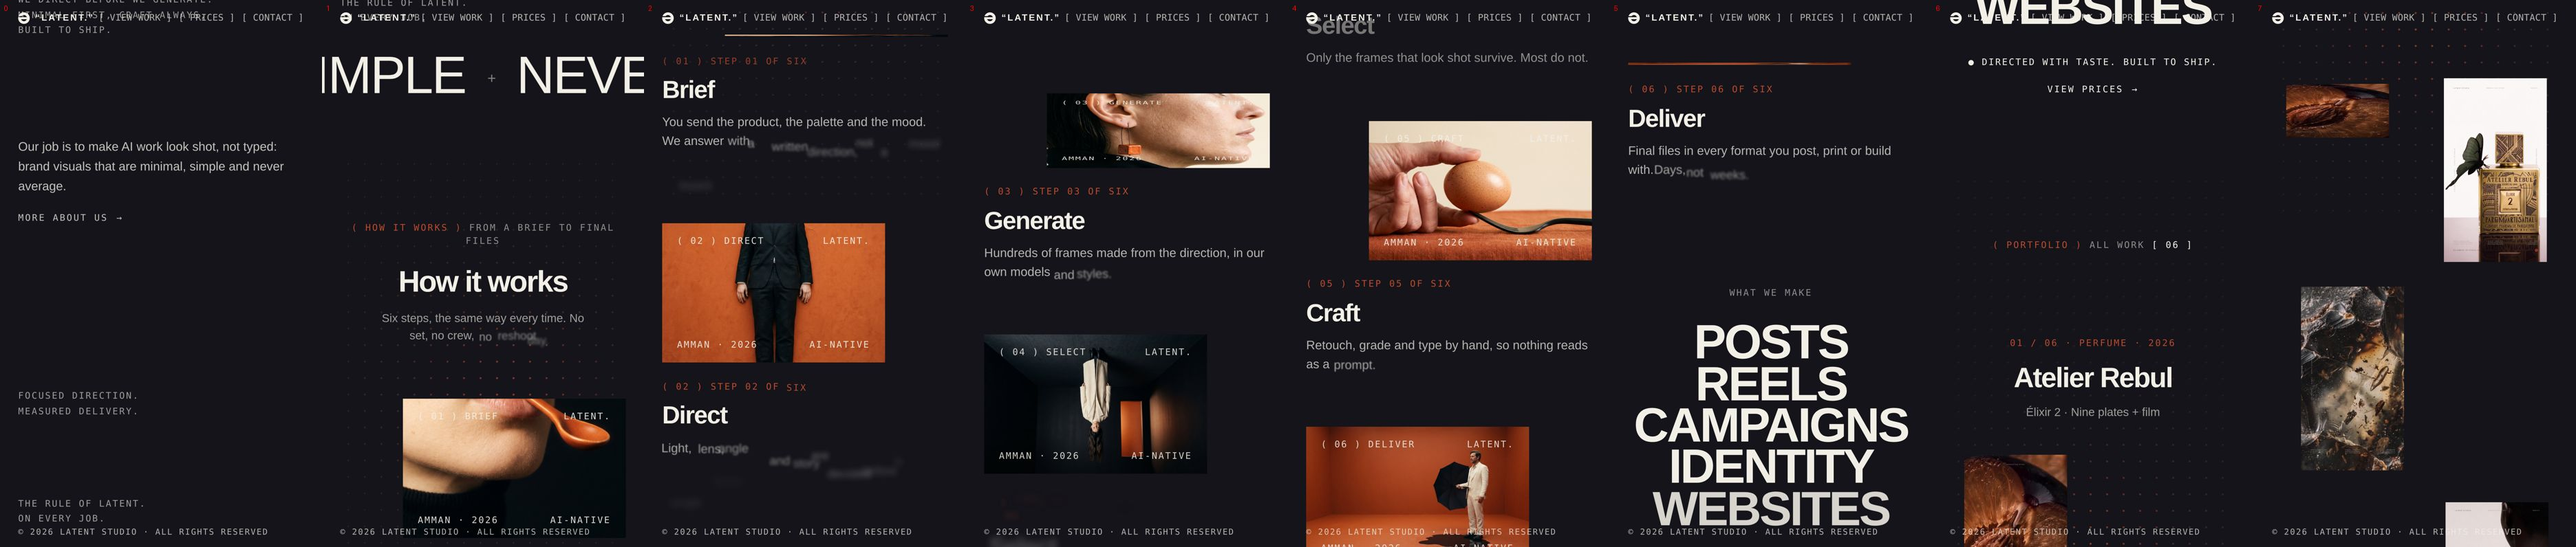
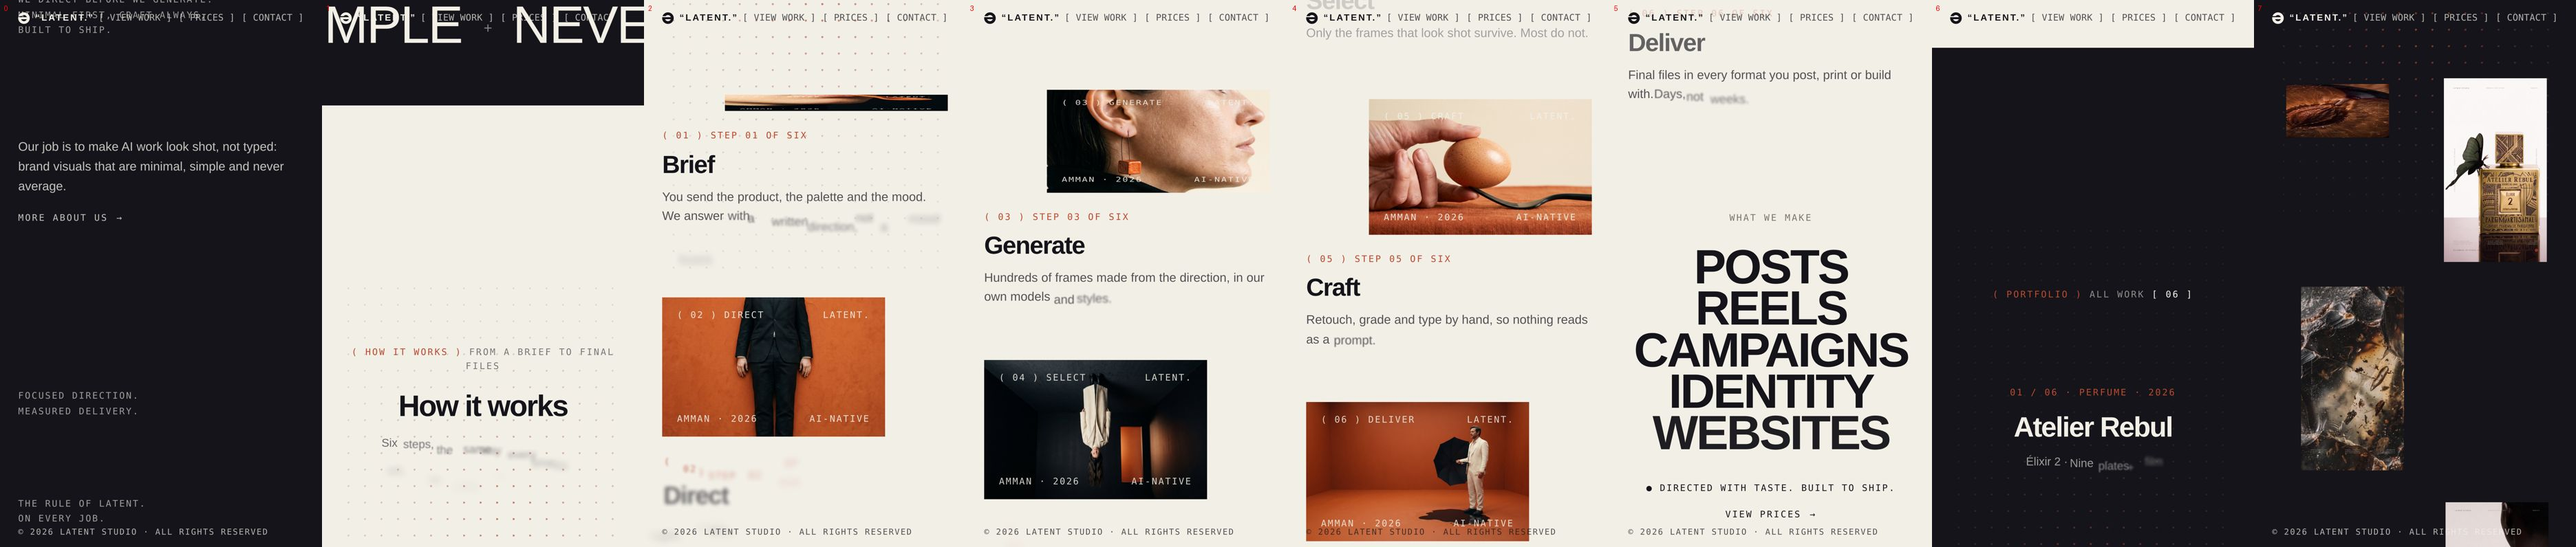
v3d: How it works on an off-white path with the blinds cut on both sides
Claude-Session: https://claude.ai/code/session_0142D8cuVtdJreCuNyu9fMo2

diff --git a/latent-v3d/index.html b/latent-v3d/index.html
@@ -1808,7 +1808,16 @@ a.stk-l{cursor:pointer}
 .hw2-line{margin:12px 0 0;font-size:15px;line-height:1.55;color:rgba(242,239,231,.72)}
 .pf2-item.in .hw-m{opacity:1}
 .hw2-type{text-align:center;padding:clamp(40px,10vh,120px) 0 clamp(20px,4vh,48px)}
-.hw2 .ty2-stack,.hw2 .ty2-foot{color:var(--ivory)}.hw2 .ty2-kick{color:rgba(242,239,231,.55)}
+/* the off-white path: ink dots on ivory, ink type, the same motion */
+.hw2.light{background:var(--ivory)}
+.hw2.light .st2-bg .d1{background-image:radial-gradient(circle at 1px 1px,rgba(20,20,26,.6) 1px,transparent 0);opacity:.16}
+.hw2.light .pf2-head{color:rgba(20,20,26,.55)}.hw2.light .pf2-head span{color:var(--ink)}
+.hw2.light .hw2-title,.hw2.light .hw2-word{color:var(--ink)}
+.hw2.light .hw2-sub{color:rgba(20,20,26,.62)}.hw2.light .hw2-line{color:rgba(20,20,26,.72)}
+.hw2.light .pf2-img{background:var(--band)}
+.hw2.light .ty2-stack,.hw2.light .ty2-foot{color:var(--ink)}.hw2.light .ty2-kick{color:var(--stone)}
+/* the cut back from ivory to ink */
+.blinds.rev{background:var(--ivory)}.blinds.rev i{background:var(--ink)}
 @media(max-width:820px){
   .st2-line{font-size:clamp(26px,7.6vw,34px);max-width:none;margin:0}
   .st2-in{padding-top:56svh}
@@ -1940,7 +1949,8 @@ a.stk-l{cursor:pointer}
   <div class="mq-track"><span class="mq-run">Minimal <i>+</i> Simple <i>+</i> Never average <i>+</i> Minimal <i>+</i> Simple <i>+</i> Never average <i>+</i> </span><span class="mq-run">Minimal <i>+</i> Simple <i>+</i> Never average <i>+</i> Minimal <i>+</i> Simple <i>+</i> Never average <i>+</i> </span></div>
   </div>
 </section>
-<section class="sec dark pf2 hw2 js-pf2 js-path" id="how">
+<div class="blinds js-blinds" aria-hidden="true"><i></i><i></i><i></i><i></i><i></i><i></i><i></i><i></i></div>
+<section class="sec light pf2 hw2 js-pf2 js-path" id="how">
   <div class="st2-bg" aria-hidden="true"><i class="d1"></i><i class="d2"></i></div>
   <div class="inner pf2-in">
     <div class="hw2-head"><p class="pf2-head rv"><b>( How it works )</b> From a brief to final files</p><h2 class="hw2-title js-words">How it works</h2><p class="hw2-sub js-words">Six steps, the same way every time. No set, no crew, no reshoot day.</p></div>
@@ -1975,6 +1985,7 @@ a.stk-l{cursor:pointer}
     </div>
   </div>
 </section>
+<div class="blinds rev js-blinds" aria-hidden="true"><i></i><i></i><i></i><i></i><i></i><i></i><i></i><i></i></div>
 
 <section class="sec dark pf2 js-pf2" id="work">
   <div class="st2-bg" aria-hidden="true"><i class="d1"></i><i class="d2"></i></div>
@@ -3308,16 +3319,16 @@ a.stk-l{cursor:pointer}
 <script>
 /* version two after the hero: the statement brightens word by word with the scroll; the blinds close from ink to ivory */
 (function(){
-  var line = document.querySelector(".js-bright"), blinds = document.querySelector(".js-blinds"), sec = document.querySelector(".js-st2"); if(!line && !blinds) return;
+  var line = document.querySelector(".js-bright"), blindsAll = [].slice.call(document.querySelectorAll(".js-blinds")), sec = document.querySelector(".js-st2"); if(!line && !blindsAll.length) return;
   var reduce = window.matchMedia("(prefers-reduced-motion: reduce)").matches, words = [], ticking = false;
   if(line){ var ws = line.textContent.trim().split(/\s+/); line.textContent = "";
     ws.forEach(function(w, i){ var sp = document.createElement("span"); sp.className = "bw"; sp.textContent = w; sp.style.setProperty("--i", i); line.appendChild(sp); if(i < ws.length - 1) line.appendChild(document.createTextNode(" ")); words.push(sp); }); }
-  var slats = blinds ? [].slice.call(blinds.children) : [];
+  var sets = blindsAll.map(function(b){ return { el: b, slats: [].slice.call(b.children) }; });
   function frame(){
     ticking = false; var vh = window.innerHeight;
     if(line){ var st = sec.getBoundingClientRect(); var p = reduce ? 1 : Math.min(1, Math.max(0, -st.top / (vh * .52))); line.classList.toggle("on", reduce || st.top <= 1); line.style.setProperty("--p", (p * (words.length + 3)).toFixed(2)); }
-    if(blinds){ var b = blinds.getBoundingClientRect(); var q = reduce ? 1 : Math.min(1, Math.max(0, (vh * .9 - b.top) / (vh * .55)));
-      slats.forEach(function(sl, i){ sl.classList.toggle("on", q > (i + 1) / (slats.length + 1)); }); }
+    sets.forEach(function(st){ var b = st.el.getBoundingClientRect(); var q = reduce ? 1 : Math.min(1, Math.max(0, (vh * .9 - b.top) / (vh * .55)));
+      st.slats.forEach(function(sl, i){ sl.classList.toggle("on", q > (i + 1) / (st.slats.length + 1)); }); });
   }
   function onScroll(){ if(!ticking){ ticking = true; requestAnimationFrame(frame); } }
   window.addEventListener("scroll", onScroll, { passive:true }); window.addEventListener("resize", onScroll); frame();

diff --git a/latent-v3-src/v3_cases2.js b/latent-v3-src/v3_cases2.js
@@ -1,15 +1,15 @@
 /* version two after the hero: the statement brightens word by word with the scroll; the blinds close from ink to ivory */
 (function(){
-  var line = document.querySelector(".js-bright"), blinds = document.querySelector(".js-blinds"), sec = document.querySelector(".js-st2"); if(!line && !blinds) return;
+  var line = document.querySelector(".js-bright"), blindsAll = [].slice.call(document.querySelectorAll(".js-blinds")), sec = document.querySelector(".js-st2"); if(!line && !blindsAll.length) return;
   var reduce = window.matchMedia("(prefers-reduced-motion: reduce)").matches, words = [], ticking = false;
   if(line){ var ws = line.textContent.trim().split(/\s+/); line.textContent = "";
     ws.forEach(function(w, i){ var sp = document.createElement("span"); sp.className = "bw"; sp.textContent = w; sp.style.setProperty("--i", i); line.appendChild(sp); if(i < ws.length - 1) line.appendChild(document.createTextNode(" ")); words.push(sp); }); }
-  var slats = blinds ? [].slice.call(blinds.children) : [];
+  var sets = blindsAll.map(function(b){ return { el: b, slats: [].slice.call(b.children) }; });
   function frame(){
     ticking = false; var vh = window.innerHeight;
     if(line){ var st = sec.getBoundingClientRect(); var p = reduce ? 1 : Math.min(1, Math.max(0, -st.top / (vh * .52))); line.classList.toggle("on", reduce || st.top <= 1); line.style.setProperty("--p", (p * (words.length + 3)).toFixed(2)); }
-    if(blinds){ var b = blinds.getBoundingClientRect(); var q = reduce ? 1 : Math.min(1, Math.max(0, (vh * .9 - b.top) / (vh * .55)));
-      slats.forEach(function(sl, i){ sl.classList.toggle("on", q > (i + 1) / (slats.length + 1)); }); }
+    sets.forEach(function(st){ var b = st.el.getBoundingClientRect(); var q = reduce ? 1 : Math.min(1, Math.max(0, (vh * .9 - b.top) / (vh * .55)));
+      st.slats.forEach(function(sl, i){ sl.classList.toggle("on", q > (i + 1) / (st.slats.length + 1)); }); });
   }
   function onScroll(){ if(!ticking){ ticking = true; requestAnimationFrame(frame); } }
   window.addEventListener("scroll", onScroll, { passive:true }); window.addEventListener("resize", onScroll); frame();

diff --git a/latent-v3-src/v3_css8.css b/latent-v3-src/v3_css8.css
@@ -89,7 +89,16 @@
 .hw2-line{margin:12px 0 0;font-size:15px;line-height:1.55;color:rgba(242,239,231,.72)}
 .pf2-item.in .hw-m{opacity:1}
 .hw2-type{text-align:center;padding:clamp(40px,10vh,120px) 0 clamp(20px,4vh,48px)}
-.hw2 .ty2-stack,.hw2 .ty2-foot{color:var(--ivory)}.hw2 .ty2-kick{color:rgba(242,239,231,.55)}
+/* the off-white path: ink dots on ivory, ink type, the same motion */
+.hw2.light{background:var(--ivory)}
+.hw2.light .st2-bg .d1{background-image:radial-gradient(circle at 1px 1px,rgba(20,20,26,.6) 1px,transparent 0);opacity:.16}
+.hw2.light .pf2-head{color:rgba(20,20,26,.55)}.hw2.light .pf2-head span{color:var(--ink)}
+.hw2.light .hw2-title,.hw2.light .hw2-word{color:var(--ink)}
+.hw2.light .hw2-sub{color:rgba(20,20,26,.62)}.hw2.light .hw2-line{color:rgba(20,20,26,.72)}
+.hw2.light .pf2-img{background:var(--band)}
+.hw2.light .ty2-stack,.hw2.light .ty2-foot{color:var(--ink)}.hw2.light .ty2-kick{color:var(--stone)}
+/* the cut back from ivory to ink */
+.blinds.rev{background:var(--ivory)}.blinds.rev i{background:var(--ink)}
 @media(max-width:820px){
   .st2-line{font-size:clamp(26px,7.6vw,34px);max-width:none;margin:0}
   .st2-in{padding-top:56svh}

diff --git a/latent-v3-src/v3_how2.py b/latent-v3-src/v3_how2.py
@@ -14,7 +14,8 @@ for k,(img,r,num,word,txt) in enumerate(STEPS):
       <div class="hw2-txt" style="--tx:%.1f%%;--ty:%.1f%%"><p class="hw2-kick js-words">( %s ) Step %s of six</p><h3 class="hw2-word js-words">%s</h3><p class="hw2-line js-words">%s</p></div>
     </div>
 '''%(x,iy,W,r,img,_micro(num,word),tx,ty,num,num,word,txt)
-V2H='''<section class="sec dark pf2 hw2 js-pf2 js-path" id="how">
+V2H='''<div class="blinds js-blinds" aria-hidden="true"><i></i><i></i><i></i><i></i><i></i><i></i><i></i><i></i></div>
+<section class="sec light pf2 hw2 js-pf2 js-path" id="how">
   <div class="st2-bg" aria-hidden="true"><i class="d1"></i><i class="d2"></i></div>
   <div class="inner pf2-in">
     <div class="hw2-head"><p class="pf2-head rv"><b>( How it works )</b> From a brief to final files</p><h2 class="hw2-title js-words">How it works</h2><p class="hw2-sub js-words">Six steps, the same way every time. No set, no crew, no reshoot day.</p></div>
@@ -25,6 +26,7 @@ V2H='''<section class="sec dark pf2 hw2 js-pf2 js-path" id="how">
     </div>
   </div>
 </section>
+<div class="blinds rev js-blinds" aria-hidden="true"><i></i><i></i><i></i><i></i><i></i><i></i><i></i><i></i></div>
 
 '''%_chs
 _hi=V2.index('<div class="blinds js-blinds"'); _hj=V2.index('<!-- ', _hi) if '<!-- ' in V2[_hi:] else len(V2)
